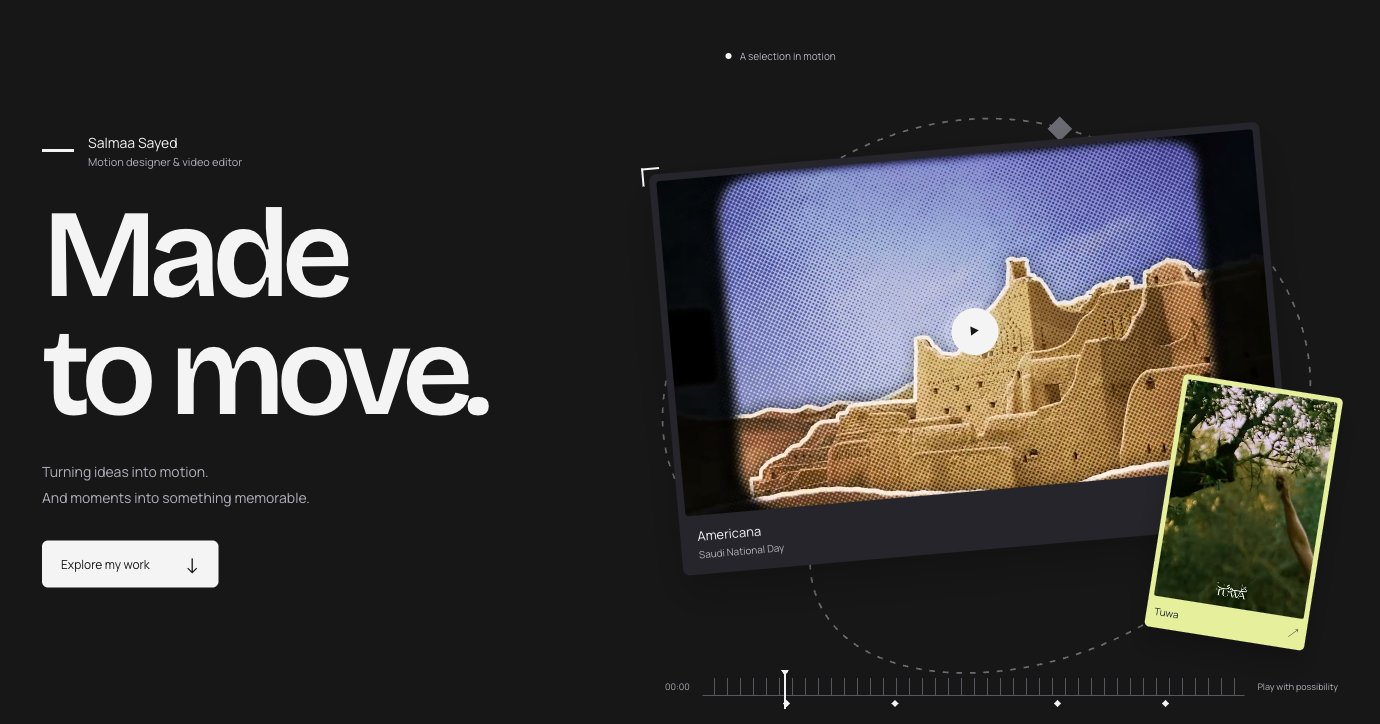
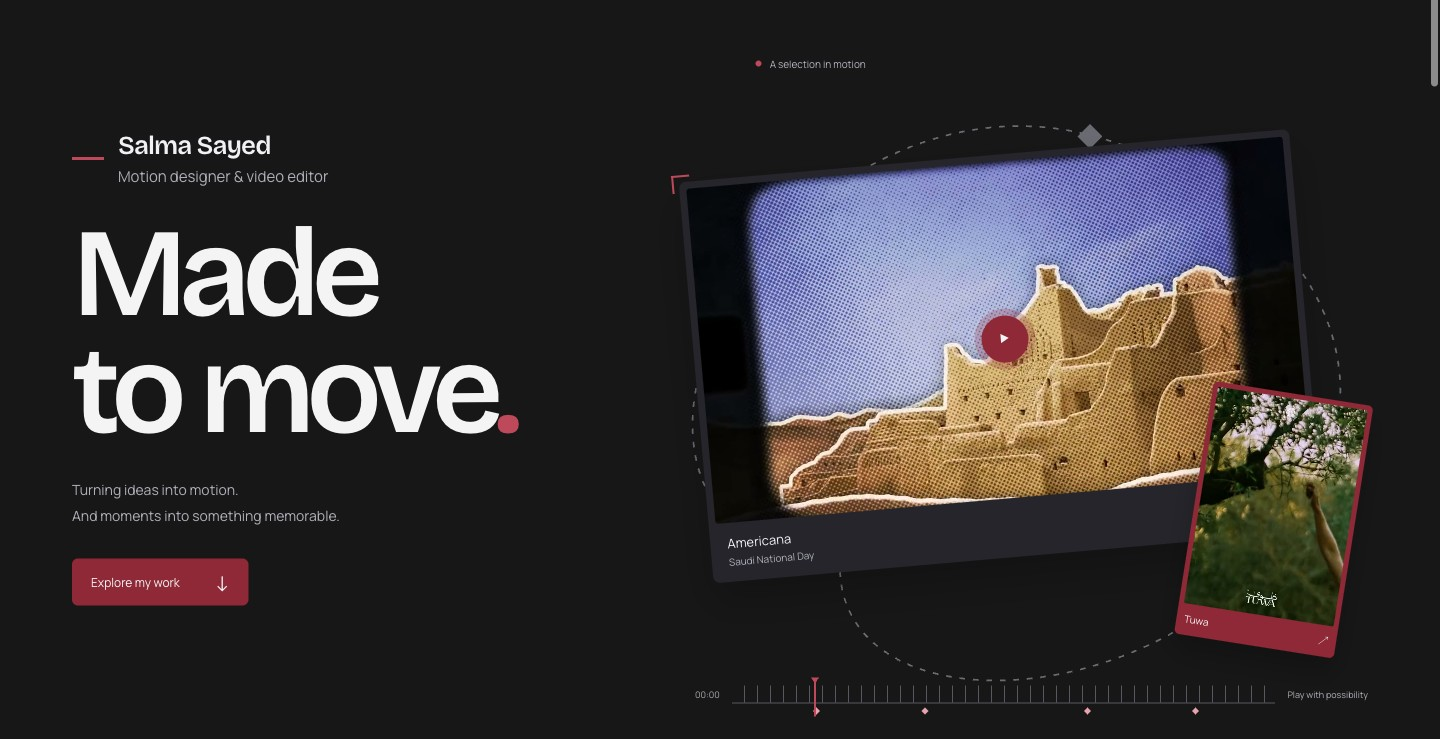
Refine Salma identity with wine accents and centered mobile type

diff --git a/styles.css b/styles.css
@@ -1,10 +1,10 @@
 @font-face{font-family:Bricolage;src:url('media/fonts/bricolage-latin.woff2') format('woff2');font-style:normal;font-weight:600;font-display:swap}
 @font-face{font-family:Manrope;src:url('media/fonts/manrope-latin.woff2') format('woff2');font-style:normal;font-weight:400;font-display:swap}
-:root{--paper:#171717;--highlight:#f4f4f4;--accent:#f4f4f4;--ink:#f1f1f5;--muted:#b0b0bb;--line:#3c3c43;--lavender:#27272c;--lime:#e5ef9c;--display:Bricolage,Arial,sans-serif;--body:Manrope,Arial,sans-serif}
-*{box-sizing:border-box}html{scroll-behavior:smooth;scroll-padding-top:100px}body{margin:0;background:var(--paper);color:var(--ink);font:15px/1.65 var(--body);-webkit-font-smoothing:antialiased}button,a,input{-webkit-tap-highlight-color:transparent}button,input{font:inherit}button{cursor:pointer}a{color:inherit;text-decoration:none}button{color:inherit}button:disabled{cursor:default;opacity:.35}img,video{display:block;width:100%}button svg{width:20px;height:20px;fill:none;stroke:currentColor;stroke-width:1.7;stroke-linecap:round;stroke-linejoin:round}button svg polygon,button svg rect{fill:currentColor;stroke:none}button[hidden],a[hidden],[hidden]{display:none!important}h1,h2,h3,p{margin:0}h1,h2,h3{font-family:var(--display);font-weight:600}a:focus-visible,button:focus-visible,input:focus-visible,article:focus-visible{outline:3px solid var(--highlight);outline-offset:5px}.skip-link{color:#171717;position:fixed;left:20px;top:-100px;z-index:20;padding:12px 20px;background:white;border:2px solid var(--highlight)}.skip-link:focus{top:12px}.site-header{max-width:1480px;margin:auto;padding:30px 5%;display:flex;align-items:center;justify-content:center}nav{display:flex;align-items:center;gap:34px}.site-header nav a{font-size:13px}.site-header nav a:hover{color:var(--highlight)}.nav-contact{border:1px solid var(--line);border-radius:24px;padding:10px 20px}.nav-contact span{padding-left:16px}.hero{max-width:1480px;padding:55px 5% 60px;margin:auto;display:grid;grid-template-columns:1fr 1.08fr;min-height:700px;align-items:center}.hero-copy{z-index:1}.identity{display:flex;gap:14px;align-items:center;margin-bottom:26px}.identity p{display:grid;line-height:1.55}.hero-name{font-family:var(--display);font-size:26px;letter-spacing:-.035em;line-height:1.3}.hero-title{font-size:15px;color:var(--muted);margin-top:3px}.identity-line{display:block;width:32px;height:3px;background:var(--highlight)}h1{font-size:clamp(85px,8.7vw,135px);letter-spacing:-.072em;line-height:.94;color:var(--highlight)}.move-word{display:inline-block;position:relative}.motion-dot{display:inline-block;color:var(--highlight)}.hero-description{margin:27px 0 30px;font-size:14px;line-height:1.85;color:var(--muted)}.primary-link{background:var(--highlight);color:var(--paper);padding:13px 19px;border-radius:6px;font-size:12px;display:inline-flex;gap:35px;align-items:center}.primary-link:hover{background:#ffffff}.primary-link span{font-size:21px;line-height:1}.hero-stage{position:relative;width:100%;aspect-ratio:1.08;align-self:center}.motion-path{position:absolute;inset:-4% -6%;width:112%;height:112%;color:#6b6b73;pointer-events:none}.hero-tiny{position:absolute;left:9%;top:0;font-size:10px;color:var(--muted);display:flex;gap:8px;align-items:center}.tiny-dot{width:6px;height:6px;background:var(--highlight);border-radius:50%}.hero-feature{position:absolute;left:0;top:16%;width:91%;background:#25252b;border:0;padding:7px;text-align:left;border-radius:7px;transform:rotate(-5deg);box-shadow:0 20px 40px #00000035;transition:transform .3s}.hero-feature:hover{transform:rotate(-2deg)}.hero-feature>img{aspect-ratio:16/9;object-fit:cover;border-radius:3px}.hero-feature-bottom{display:flex;justify-content:space-between;padding:12px 10px 6px;align-items:center;font-size:13px;line-height:1.35}.hero-feature-bottom small{display:block;font-size:10px;margin-top:3px;color:var(--muted)}.hero-play{display:grid;place-items:center;width:35px;height:35px;border-radius:50%;background:var(--highlight);color:#171717;font-size:11px}.frame-corner{position:absolute;width:18px;height:18px;border-color:var(--highlight);border-style:solid;z-index:1}.top-left{top:-7px;left:-7px;border-width:2px 0 0 2px}.bottom-right{right:-7px;bottom:-7px;border-width:0 2px 2px 0}.hero-secondary{position:absolute;right:2%;bottom:5%;width:24%;padding:5px;border:0;background:var(--lime);color:#232638;border-radius:5px;transform:rotate(9deg);box-shadow:0 16px 25px #00000035;transition:transform .3s}.hero-secondary:hover{transform:rotate(3deg)}.hero-secondary img{aspect-ratio:9/13;object-fit:cover;border-radius:2px}.hero-secondary>span{display:flex;justify-content:space-between;font-size:10px;padding:7px 3px 3px}.motion-stamp{position:absolute;left:8%;bottom:14%;width:64px;height:64px;color:var(--highlight);transform:rotate(12deg)}.motion-stamp svg{width:100%;height:100%;stroke:currentColor;stroke-width:10}.timeline{position:absolute;bottom:-4%;left:0;right:0;display:flex;align-items:center;gap:13px;font-size:9px;color:var(--muted)}.timeline-track{height:18px;flex:1;position:relative;background:repeating-linear-gradient(90deg,transparent 0,transparent 11px,#575760 12px,#575760 13px);border-bottom:1px solid #575760}.timeline-track i{position:absolute;top:23px;width:5px;height:5px;transform:rotate(45deg);background:var(--highlight)}.timeline-track i:nth-child(1){left:15%}.timeline-track i:nth-child(2){left:35%}.timeline-track i:nth-child(3){left:65%}.timeline-track i:nth-child(4){left:85%}.timeline-track b{position:absolute;top:-5px;left:15%;height:36px;width:2px;background:var(--highlight);animation:playhead 8s ease-in-out infinite alternate}.timeline-track b:before{content:'';position:absolute;left:-3px;top:-3px;border:4px solid transparent;border-top:6px solid var(--highlight)}@keyframes playhead{to{left:85%}}
-.work-section{max-width:1480px;padding:76px 5% 20px;margin:auto}.work-heading{display:flex;justify-content:space-between;align-items:flex-end;gap:30px;padding-bottom:36px}.section-intro{font-size:12px;margin-bottom:17px;color:var(--muted)}.work-heading h2,.about h2{font-size:clamp(40px,4.5vw,65px);line-height:1.05;letter-spacing:-.055em}.work-heading>p{font-size:12px;line-height:1.8;color:var(--muted);padding-bottom:7px}.work-index{border-top:1px solid var(--line);border-bottom:1px solid var(--line);padding:18px 0;gap:30px;margin-bottom:50px}.work-index a{font-size:12px;display:flex;gap:9px;align-items:center}.work-index a:hover{color:var(--highlight)}.work-index a span{font-size:9px;color:var(--muted)}.index-note{margin-left:auto;font-size:10px;color:var(--muted);display:flex;align-items:center;gap:8px}.index-note svg{width:14px;height:14px;fill:none;stroke:currentColor;stroke-width:1.5}.portfolio-section{margin:0 0 62px;scroll-margin-top:30px}.section-header{display:flex;align-items:center;justify-content:space-between;margin-bottom:22px;gap:20px}.section-title-group{display:flex;align-items:baseline;gap:24px}.section-label{font-size:30px;letter-spacing:-.045em;line-height:1.2}.section-description{font-size:11px;color:var(--muted)}.rail-nav{display:flex;gap:8px}.carousel-btn{width:35px;height:35px;border:1px solid var(--line);border-radius:50%;background:transparent;font-size:17px;line-height:1}.carousel-btn:not(:disabled):hover{background:var(--highlight);border-color:var(--highlight);color:var(--paper)}.video-scroll-wrap{overflow-x:auto;overscroll-behavior-x:contain;scroll-snap-type:x mandatory;scrollbar-width:thin;scrollbar-color:#797980 transparent;padding:6px 4px 17px;margin:-6px -4px 0}.video-track{display:flex;gap:23px;width:max-content;min-width:100%}.work-item{width:clamp(260px,31.9vw,444px);scroll-snap-align:start}.layout-reels .work-item{width:clamp(190px,21vw,287px)}.video-card{position:relative;width:100%;aspect-ratio:16/10;overflow:hidden;border-radius:8px;background:#25252b;cursor:pointer}.reel-card{aspect-ratio:9/13.8}.video-card video,.video-poster,.video-card iframe{position:absolute;inset:0;height:100%;width:100%;object-fit:cover;border:0;background:#1b1b1d}.video-card .contain-video{object-fit:contain}.video-card:after{content:'';position:absolute;inset:50% 0 0;background:linear-gradient(transparent,#00000065);pointer-events:none}.media-controls{position:absolute;bottom:14px;left:14px;right:14px;z-index:2;display:flex;align-items:center;gap:7px}.media-controls button{display:grid;place-items:center;width:33px;height:33px;border:1px solid #ffffff50;border-radius:50%;background:#12121270;color:white;backdrop-filter:blur(8px)}.media-controls button:hover{background:var(--accent);color:#171717}.media-controls .media-expand{margin-left:auto}.media-controls button svg{width:16px;height:16px}.media-controls button:focus-visible{outline-color:var(--lime);outline-offset:3px}.media-progress{position:absolute;bottom:2px;left:12px;width:calc(100% - 24px);height:3px;accent-color:var(--lime);z-index:3;cursor:pointer;opacity:0;transition:opacity .2s}.video-card:hover .media-progress,.video-card:focus-within .media-progress,.video-card.is-playing .media-progress{opacity:1}.work-caption{display:flex;justify-content:space-between;gap:12px;padding:14px 1px 0;align-items:baseline;line-height:1.5}.work-caption h4{font-family:var(--body);font-size:12px;letter-spacing:0;font-weight:400}.work-caption p{font-size:10px;color:var(--muted)}.play-feedback{position:absolute;z-index:3;top:50%;left:50%;transform:translate(-50%,-50%) scale(.85);width:52px;height:52px;background:#111936a0;color:white;border-radius:50%;display:grid;place-items:center;opacity:0;pointer-events:none;transition:opacity .15s,transform .15s}.play-feedback svg{width:20px;fill:currentColor}.play-feedback.is-visible{opacity:1;transform:translate(-50%,-50%) scale(1)}.video-card.is-loading:before,.viewer-media.is-loading:before{content:'';position:absolute;top:50%;left:50%;width:28px;height:28px;margin:-14px;border:2px solid #ffffff70;border-top-color:white;border-radius:50%;animation:spinner .8s linear infinite;z-index:4;pointer-events:none}@keyframes spinner{to{transform:rotate(360deg)}}.media-error{position:absolute;inset:0;display:grid;place-items:center;padding:30px;color:white;background:#202024e8;z-index:1;font-size:12px;text-align:center}.dragging{cursor:grabbing;scroll-snap-type:none;user-select:none}.dragging .video-card{cursor:grabbing}.has-embed:after{display:none}
-.about{max-width:1480px;display:grid;grid-template-columns:1fr 1fr;gap:10%;margin:auto;padding:80px 8% 130px;align-items:center}.about-art{position:relative;aspect-ratio:1;max-width:435px;background:var(--lavender);border-radius:50%;display:grid;place-items:center;isolation:isolate}.about-art>span{font-family:var(--display);color:var(--highlight);font-size:clamp(50px,5.5vw,78px);line-height:.96;letter-spacing:-.06em;text-align:center;z-index:1}.about-shape{position:absolute;width:82%;height:52%;border:1px solid #929299;border-radius:50%;transform:rotate(-32deg)}.about-diamond{position:absolute;top:13%;right:14%;width:28px;height:28px;background:var(--highlight);transform:rotate(45deg)}.about-cross{position:absolute;bottom:11%;left:11%;color:var(--highlight);font-family:var(--display);font-size:85px;line-height:1;transform:rotate(12deg)}.about-copy>p:not(.section-intro){font-size:13px;color:var(--muted);margin-top:22px;max-width:420px;line-height:1.85}.skills{display:flex;flex-wrap:wrap;gap:8px;margin-top:27px}.skills span{font-size:10px;padding:6px 11px;border:1px solid var(--line);border-radius:18px}.contact{background:#222224;color:#f2f3f7;padding:53px 8% 28px}.contact-top{display:flex;align-items:center;justify-content:space-between;max-width:1230px;margin:0 auto 18px;font-size:13px}.contact-spark{font-size:64px;line-height:1}.contact h2{max-width:1230px;margin:auto;font-size:clamp(55px,7.5vw,112px);letter-spacing:-.065em;line-height:1.05}.contact-links{max-width:1230px;margin:40px auto 80px;display:flex;gap:35px;align-items:center;flex-wrap:wrap;font-size:12px}.contact-links .email-link{font-size:clamp(14px,1.7vw,23px);border-bottom:1px solid #ffffff80;padding-bottom:7px;margin-right:auto}.contact-links a:hover{color:var(--lime)}.contact-links a span{padding-left:12px}.contact-bottom{max-width:1230px;margin:auto;border-top:1px solid #ffffff35;padding-top:22px;display:flex;justify-content:space-between;gap:15px;font-size:10px}.contact-bottom>span:first-child{font-family:var(--display);font-size:17px}.contact-bottom a span{padding-left:8px}footer{max-width:1480px;margin:auto;padding:20px 5%;display:flex;justify-content:space-between;font-size:9px;color:var(--muted)}
-.viewer-open{position:fixed;width:100%;overflow:hidden}.media-viewer{position:fixed;inset:0;width:100vw;max-width:none;height:100dvh;max-height:none;margin:0;padding:25px 32px;background:#1b1b1d;color:var(--ink);border:0;overflow:auto}.media-viewer[open]{display:flex;flex-direction:column;gap:18px}.media-viewer::backdrop{background:#1b1b1d}.media-viewer button:focus-visible,.media-viewer a:focus-visible{outline-color:var(--lime)}.viewer-header{display:flex;justify-content:space-between;align-items:center;gap:20px;flex-shrink:0}.viewer-header h2{font-size:22px;line-height:1.3;letter-spacing:-.02em}.viewer-category{font-size:10px;color:#b7bfdc}.viewer-close{background:transparent;border:1px solid #ffffff40;border-radius:25px;padding:8px 16px;display:flex;align-items:center;gap:18px;color:var(--ink);font-size:12px}.viewer-close span{font-size:25px;line-height:1}.viewer-media{position:relative;flex:1;min-height:0;display:flex;align-items:center;justify-content:center;overflow:hidden}.viewer-media>video,.viewer-media>img,.viewer-media>iframe{width:100%;height:100%;max-width:100%;max-height:100%;object-fit:contain;border:0}.viewer-media>iframe{aspect-ratio:16/9}.viewer-footer{display:flex;justify-content:space-between;align-items:center;gap:20px;flex-shrink:0;font-size:11px;min-height:44px}.viewer-local-controls,.viewer-browse{display:flex;align-items:center;gap:10px}.viewer-footer button{display:grid;place-items:center;width:40px;height:40px;border-radius:50%;background:transparent;color:white;border:1px solid #ffffff40;font-size:20px}.viewer-footer button:hover{background:var(--accent);color:#171717}.viewer-browse{margin-left:auto}.viewer-browse>span{min-width:56px;text-align:center;font-size:11px}.viewer-hint-text{color:#b7bfdc;margin-left:auto;font-size:10px}.viewer-error{position:absolute;left:50%;top:50%;transform:translate(-50%,-50%);padding:25px;background:#29292f;border:1px solid #55555e;text-align:center;min-width:240px;border-radius:8px;z-index:5}.viewer-error p{font-size:13px;margin-bottom:14px}.viewer-retry{background:var(--paper);color:var(--highlight);border:0;padding:8px 17px;border-radius:4px;font-size:12px}.noscript-message{padding:20px;text-align:center}.project-card{position:relative}.project-card img{aspect-ratio:4/3;object-fit:cover}.project-expand{position:absolute;right:10px;bottom:10px;background:white}.projects-grid{display:grid;grid-template-columns:repeat(2,1fr);gap:24px}
+:root{--paper:#171717;--highlight:#f4f4f4;--accent:#8f2938;--accent-hover:#a43647;--accent-soft:#e7a4ae;--accent-mark:#bd495b;--ink:#f1f1f5;--muted:#b0b0bb;--line:#3c3c43;--art-surface:#2b1e21;--display:Bricolage,Arial,sans-serif;--body:Manrope,Arial,sans-serif}
+*{box-sizing:border-box}html{scroll-behavior:smooth;scroll-padding-top:100px}body{margin:0;background:var(--paper);color:var(--ink);font:15px/1.65 var(--body);-webkit-font-smoothing:antialiased}button,a,input{-webkit-tap-highlight-color:transparent}button,input{font:inherit}button{cursor:pointer}a{color:inherit;text-decoration:none}button{color:inherit}button:disabled{cursor:default;opacity:.35}img,video{display:block;width:100%}button svg{width:20px;height:20px;fill:none;stroke:currentColor;stroke-width:1.7;stroke-linecap:round;stroke-linejoin:round}button svg polygon,button svg rect{fill:currentColor;stroke:none}button[hidden],a[hidden],[hidden]{display:none!important}h1,h2,h3,p{margin:0}h1,h2,h3{font-family:var(--display);font-weight:600}a:focus-visible,button:focus-visible,input:focus-visible,article:focus-visible{outline:3px solid var(--highlight);outline-offset:5px}.skip-link{color:#171717;position:fixed;left:20px;top:-100px;z-index:20;padding:12px 20px;background:white;border:2px solid var(--highlight)}.skip-link:focus{top:12px}.site-header{max-width:1480px;margin:auto;padding:30px 5%;display:flex;align-items:center;justify-content:center}nav{display:flex;align-items:center;gap:34px}.site-header nav a{font-size:13px}.site-header nav a:hover{color:var(--accent-soft)}.nav-contact{border:1px solid #74323d;background:#281b1e;border-radius:24px;padding:10px 20px}.nav-contact:hover{background:var(--accent);border-color:var(--accent);color:var(--highlight)!important}.nav-contact span{padding-left:16px}.hero{max-width:1480px;padding:55px 5% 60px;margin:auto;display:grid;grid-template-columns:1fr 1.08fr;min-height:700px;align-items:center}.hero-copy{z-index:1}.identity{display:flex;gap:14px;align-items:center;margin-bottom:26px}.identity p{display:grid;line-height:1.55}.hero-name{font-family:var(--display);font-size:26px;letter-spacing:-.035em;line-height:1.3}.hero-title{font-size:15px;color:var(--muted);margin-top:3px}.identity-line{display:block;width:32px;height:3px;background:var(--accent-mark)}h1{font-size:clamp(85px,8.7vw,135px);letter-spacing:-.072em;line-height:.94;color:var(--highlight)}.move-word{display:inline-block;position:relative}.motion-dot{display:inline-block;color:var(--accent-mark)}.hero-description{margin:27px 0 30px;font-size:14px;line-height:1.85;color:var(--muted)}.primary-link{background:var(--accent);color:var(--highlight);padding:13px 19px;border-radius:6px;font-size:12px;display:inline-flex;gap:35px;align-items:center}.primary-link:hover{background:var(--accent-hover)}.primary-link span{font-size:21px;line-height:1}.hero-stage{position:relative;width:100%;aspect-ratio:1.08;align-self:center}.motion-path{position:absolute;inset:-4% -6%;width:112%;height:112%;color:#6b6b73;pointer-events:none}.hero-tiny{position:absolute;left:9%;top:0;font-size:10px;color:var(--muted);display:flex;gap:8px;align-items:center}.tiny-dot{width:6px;height:6px;background:var(--accent-mark);border-radius:50%}.hero-feature{position:absolute;left:0;top:16%;width:91%;background:#25252b;border:0;padding:7px;text-align:left;border-radius:7px;transform:rotate(-5deg);box-shadow:0 20px 40px #00000035;transition:transform .3s}.hero-feature:hover{transform:rotate(-2deg)}.hero-feature>img{aspect-ratio:16/9;object-fit:cover;border-radius:3px}.hero-feature-bottom{display:flex;justify-content:space-between;padding:12px 10px 6px;align-items:center;font-size:13px;line-height:1.35}.hero-feature-bottom small{display:block;font-size:10px;margin-top:3px;color:var(--muted)}.hero-play{display:grid;place-items:center;width:35px;height:35px;border-radius:50%;background:var(--highlight);color:#171717;font-size:11px}.frame-corner{position:absolute;width:18px;height:18px;border-color:var(--accent-mark);border-style:solid;z-index:1}.top-left{top:-7px;left:-7px;border-width:2px 0 0 2px}.bottom-right{right:-7px;bottom:-7px;border-width:0 2px 2px 0}.hero-secondary{position:absolute;right:2%;bottom:5%;width:24%;padding:5px;border:0;background:var(--accent);color:var(--highlight);border-radius:5px;transform:rotate(9deg);box-shadow:0 16px 25px #00000035;transition:transform .3s}.hero-secondary:hover{transform:rotate(3deg)}.hero-secondary img{aspect-ratio:9/13;object-fit:cover;border-radius:2px}.hero-secondary>span{display:flex;justify-content:space-between;font-size:10px;padding:7px 3px 3px}.motion-stamp{position:absolute;left:8%;bottom:14%;width:64px;height:64px;color:var(--highlight);transform:rotate(12deg)}.motion-stamp svg{width:100%;height:100%;stroke:currentColor;stroke-width:10}.timeline{position:absolute;bottom:-4%;left:0;right:0;display:flex;align-items:center;gap:13px;font-size:9px;color:var(--muted)}.timeline-track{height:18px;flex:1;position:relative;background:repeating-linear-gradient(90deg,transparent 0,transparent 11px,#575760 12px,#575760 13px);border-bottom:1px solid #575760}.timeline-track i{position:absolute;top:23px;width:5px;height:5px;transform:rotate(45deg);background:var(--accent-soft)}.timeline-track i:nth-child(1){left:15%}.timeline-track i:nth-child(2){left:35%}.timeline-track i:nth-child(3){left:65%}.timeline-track i:nth-child(4){left:85%}.timeline-track b{position:absolute;top:-5px;left:15%;height:36px;width:2px;background:var(--accent-mark);animation:playhead 8s ease-in-out infinite alternate}.timeline-track b:before{content:'';position:absolute;left:-3px;top:-3px;border:4px solid transparent;border-top:6px solid var(--accent-mark)}@keyframes playhead{to{left:85%}}
+.work-section{max-width:1480px;padding:76px 5% 20px;margin:auto}.work-heading{display:flex;justify-content:space-between;align-items:flex-end;gap:30px;padding-bottom:36px}.section-intro{font-size:12px;margin-bottom:17px;color:var(--muted)}.work-heading h2,.about h2{font-size:clamp(40px,4.5vw,65px);line-height:1.05;letter-spacing:-.055em}.work-heading>p{font-size:12px;line-height:1.8;color:var(--muted);padding-bottom:7px}.work-index{border-top:1px solid var(--line);border-bottom:1px solid var(--line);padding:18px 0;gap:30px;margin-bottom:50px}.work-index a{font-size:12px;display:flex;gap:9px;align-items:center}.work-index a:hover{color:var(--accent-soft)}.work-index a span{font-size:9px;color:var(--muted)}.index-note{margin-left:auto;font-size:10px;color:var(--muted);display:flex;align-items:center;gap:8px}.index-note svg{width:14px;height:14px;fill:none;stroke:currentColor;stroke-width:1.5}.portfolio-section{margin:0 0 62px;scroll-margin-top:30px}.section-header{display:flex;align-items:center;justify-content:space-between;margin-bottom:22px;gap:20px}.section-title-group{display:flex;align-items:baseline;gap:24px}.section-label{font-size:30px;letter-spacing:-.045em;line-height:1.2}.section-description{font-size:11px;color:var(--muted)}.rail-nav{display:flex;gap:8px}.carousel-btn{width:35px;height:35px;border:1px solid var(--line);border-radius:50%;background:transparent;font-size:17px;line-height:1}.carousel-btn:not(:disabled):hover{background:var(--accent);border-color:var(--accent);color:var(--highlight)}.video-scroll-wrap{overflow-x:auto;overscroll-behavior-x:contain;scroll-snap-type:x mandatory;scrollbar-width:thin;scrollbar-color:#797980 transparent;padding:6px 4px 17px;margin:-6px -4px 0}.video-track{display:flex;gap:23px;width:max-content;min-width:100%}.work-item{width:clamp(260px,31.9vw,444px);scroll-snap-align:start}.layout-reels .work-item{width:clamp(190px,21vw,287px)}.video-card{position:relative;width:100%;aspect-ratio:16/10;overflow:hidden;border-radius:8px;background:#25252b;cursor:pointer}.reel-card{aspect-ratio:9/13.8}.video-card video,.video-poster,.video-card iframe{position:absolute;inset:0;height:100%;width:100%;object-fit:cover;border:0;background:#1b1b1d}.video-card .contain-video{object-fit:contain}.video-card:after{content:'';position:absolute;inset:50% 0 0;background:linear-gradient(transparent,#00000065);pointer-events:none}.media-controls{position:absolute;bottom:14px;left:14px;right:14px;z-index:2;display:flex;align-items:center;gap:7px}.media-controls button{display:grid;place-items:center;width:33px;height:33px;border:1px solid #ffffff50;border-radius:50%;background:#12121270;color:white;backdrop-filter:blur(8px)}.media-controls button:hover{background:var(--accent);color:var(--highlight)}.media-controls .media-expand{margin-left:auto}.media-controls button svg{width:16px;height:16px}.media-controls button:focus-visible{outline-color:var(--accent-soft);outline-offset:3px}.media-progress{position:absolute;bottom:2px;left:12px;width:calc(100% - 24px);height:3px;accent-color:var(--accent-soft);z-index:3;cursor:pointer;opacity:0;transition:opacity .2s}.video-card:hover .media-progress,.video-card:focus-within .media-progress,.video-card.is-playing .media-progress{opacity:1}.work-caption{display:flex;justify-content:space-between;gap:12px;padding:14px 1px 0;align-items:baseline;line-height:1.5}.work-caption h4{font-family:var(--body);font-size:12px;letter-spacing:0;font-weight:400}.work-caption p{font-size:10px;color:var(--muted)}.play-feedback{position:absolute;z-index:3;top:50%;left:50%;transform:translate(-50%,-50%) scale(.85);width:52px;height:52px;background:#642331d9;color:white;border-radius:50%;display:grid;place-items:center;opacity:0;pointer-events:none;transition:opacity .15s,transform .15s}.play-feedback svg{width:20px;fill:currentColor}.play-feedback.is-visible{opacity:1;transform:translate(-50%,-50%) scale(1)}.video-card.is-loading:before,.viewer-media.is-loading:before{content:'';position:absolute;top:50%;left:50%;width:28px;height:28px;margin:-14px;border:2px solid #ffffff70;border-top-color:white;border-radius:50%;animation:spinner .8s linear infinite;z-index:4;pointer-events:none}@keyframes spinner{to{transform:rotate(360deg)}}.media-error{position:absolute;inset:0;display:grid;place-items:center;padding:30px;color:white;background:#202024e8;z-index:1;font-size:12px;text-align:center}.dragging{cursor:grabbing;scroll-snap-type:none;user-select:none}.dragging .video-card{cursor:grabbing}.has-embed:after{display:none}
+.about{max-width:1480px;display:grid;grid-template-columns:1fr 1fr;gap:10%;margin:auto;padding:80px 8% 130px;align-items:center}.about-art{position:relative;aspect-ratio:1;max-width:435px;background:var(--art-surface);border-radius:50%;display:grid;place-items:center;isolation:isolate}.about-art>span{font-family:var(--display);color:var(--highlight);font-size:clamp(50px,5.5vw,78px);line-height:.96;letter-spacing:-.06em;text-align:center;z-index:1}.about-shape{position:absolute;width:82%;height:52%;border:1px solid #929299;border-radius:50%;transform:rotate(-32deg)}.about-diamond{position:absolute;top:13%;right:14%;width:28px;height:28px;background:var(--accent-mark);transform:rotate(45deg)}.about-cross{position:absolute;bottom:11%;left:11%;color:var(--accent-mark);font-family:var(--display);font-size:85px;line-height:1;transform:rotate(12deg)}.about-copy>p:not(.section-intro){font-size:13px;color:var(--muted);margin-top:22px;max-width:420px;line-height:1.85}.skills{display:flex;flex-wrap:wrap;gap:8px;margin-top:27px}.skills span{font-size:10px;padding:6px 11px;border:1px solid var(--line);border-radius:18px}.contact{background:#211a1c;border-top:1px solid #5b2832;color:#f2f3f7;padding:53px 8% 28px}.contact-top{display:flex;align-items:center;justify-content:space-between;max-width:1230px;margin:0 auto 18px;font-size:13px}.contact-spark{color:var(--accent-mark);font-size:64px;line-height:1}.contact h2{max-width:1230px;margin:auto;font-size:clamp(55px,7.5vw,112px);letter-spacing:-.065em;line-height:1.05}.contact-links{max-width:1230px;margin:40px auto 80px;display:flex;gap:35px;align-items:center;flex-wrap:wrap;font-size:12px}.contact-links .email-link{font-size:clamp(14px,1.7vw,23px);border-bottom:1px solid #ffffff80;padding-bottom:7px;margin-right:auto}.contact-links a:hover{color:var(--accent-soft)}.contact-links a span{padding-left:12px}.contact-bottom{max-width:1230px;margin:auto;border-top:1px solid #ffffff35;padding-top:22px;display:flex;justify-content:space-between;gap:15px;font-size:10px}.contact-bottom>span:first-child{font-family:var(--display);font-size:17px}.contact-bottom a span{padding-left:8px}footer{max-width:1480px;margin:auto;padding:20px 5%;display:flex;justify-content:space-between;font-size:9px;color:var(--muted)}
+.viewer-open{position:fixed;width:100%;overflow:hidden}.media-viewer{position:fixed;inset:0;width:100vw;max-width:none;height:100dvh;max-height:none;margin:0;padding:25px 32px;background:#1b1b1d;color:var(--ink);border:0;overflow:auto}.media-viewer[open]{display:flex;flex-direction:column;gap:18px}.media-viewer::backdrop{background:#1b1b1d}.media-viewer button:focus-visible,.media-viewer a:focus-visible{outline-color:var(--accent-soft)}.viewer-header{display:flex;justify-content:space-between;align-items:center;gap:20px;flex-shrink:0}.viewer-header h2{font-size:22px;line-height:1.3;letter-spacing:-.02em}.viewer-category{font-size:10px;color:var(--accent-soft)}.viewer-close{background:transparent;border:1px solid #ffffff40;border-radius:25px;padding:8px 16px;display:flex;align-items:center;gap:18px;color:var(--ink);font-size:12px}.viewer-close span{font-size:25px;line-height:1}.viewer-media{position:relative;flex:1;min-height:0;display:flex;align-items:center;justify-content:center;overflow:hidden}.viewer-media>video,.viewer-media>img,.viewer-media>iframe{width:100%;height:100%;max-width:100%;max-height:100%;object-fit:contain;border:0}.viewer-media>iframe{aspect-ratio:16/9}.viewer-footer{display:flex;justify-content:space-between;align-items:center;gap:20px;flex-shrink:0;font-size:11px;min-height:44px}.viewer-local-controls,.viewer-browse{display:flex;align-items:center;gap:10px}.viewer-footer button{display:grid;place-items:center;width:40px;height:40px;border-radius:50%;background:transparent;color:white;border:1px solid #ffffff40;font-size:20px}.viewer-footer button:hover{background:var(--accent);color:var(--highlight)}.viewer-browse{margin-left:auto}.viewer-browse>span{min-width:56px;text-align:center;font-size:11px}.viewer-hint-text{color:var(--muted);margin-left:auto;font-size:10px}.viewer-error{position:absolute;left:50%;top:50%;transform:translate(-50%,-50%);padding:25px;background:#29292f;border:1px solid #55555e;text-align:center;min-width:240px;border-radius:8px;z-index:5}.viewer-error p{font-size:13px;margin-bottom:14px}.viewer-retry{background:var(--paper);color:var(--highlight);border:0;padding:8px 17px;border-radius:4px;font-size:12px}.noscript-message{padding:20px;text-align:center}.project-card{position:relative}.project-card img{aspect-ratio:4/3;object-fit:cover}.project-expand{position:absolute;right:10px;bottom:10px;background:white}.projects-grid{display:grid;grid-template-columns:repeat(2,1fr);gap:24px}
 @media(min-width:1700px){.work-item{width:444px}.layout-reels .work-item{width:287px}}
 @media(max-width:1000px){.hero{min-height:600px;padding-top:50px;padding-bottom:55px}.hero-stage{aspect-ratio:1}.hero-secondary{bottom:0}.motion-stamp{bottom:7%;width:50px}.timeline{bottom:-11%}.work-heading h2,.about h2{font-size:48px}.about{gap:7%;padding:50px 6% 100px}.section-title-group{gap:18px}.work-item{width:340px}.layout-reels .work-item{width:225px}.contact-links{gap:25px}.contact-bottom>span:nth-child(2){display:none}}
 @media(max-width:700px){html{scroll-padding-top:25px}.site-header{padding:21px 6%}.site-header nav{gap:20px}.site-header nav a{font-size:11px}.nav-contact{padding:7px 12px}.nav-contact span{padding-left:5px}.hero{grid-template-columns:1fr;padding:36px 6% 57px;gap:43px;min-height:0}.identity{margin-bottom:22px}.hero-name{font-size:22px}.hero-title{font-size:12px}h1{font-size:clamp(86px,17vw,120px);line-height:.94}.hero-description{font-size:12px;margin:23px 0}.primary-link{padding:11px 16px;font-size:11px;gap:25px}.hero-stage{max-width:520px;margin:0 auto;aspect-ratio:1.18}.hero-feature{top:15%;left:3%;width:87%}.hero-tiny{left:6%;top:-1%}.hero-secondary{right:3%;bottom:1%;width:23%}.hero-feature-bottom{font-size:11px;padding:8px 5px 3px}.hero-feature-bottom small{font-size:9px}.hero-play{width:29px;height:29px;font-size:10px}.motion-stamp{left:12%;bottom:13%;width:48px}.timeline{bottom:-9%;font-size:8px;gap:9px}.timeline-track{height:15px}.work-section{padding:66px 6% 8px}.work-heading{padding-bottom:26px;align-items:flex-start}.work-heading h2{font-size:39px}.work-heading>p{font-size:10px;max-width:105px;padding-top:37px}.section-intro{font-size:10px;margin-bottom:12px}.work-index{gap:22px;margin-bottom:34px;flex-wrap:wrap;padding:15px 0}.work-index a{font-size:11px;gap:5px}.index-note{width:100%;margin:0;font-size:9px;display:none}.portfolio-section{margin-bottom:38px}.section-label{font-size:26px}.section-description{font-size:10px;margin-top:5px}.section-title-group{display:block}.section-header{margin-bottom:19px;gap:10px}.carousel-btn{width:32px;height:32px}.video-track{gap:16px}.work-item{width:78vw;max-width:380px}.layout-reels .work-item{width:54vw;max-width:240px}.video-card{border-radius:6px}.media-controls{bottom:14px;left:10px;right:10px;gap:6px}.media-controls button{width:32px;height:32px}.work-caption{padding-top:10px;display:block}.work-caption h4{font-size:12px}.work-caption p{font-size:10px;margin-top:2px}.about{grid-template-columns:1fr;padding:36px 8% 72px;gap:36px}.about-art{width:75%;margin:auto;max-width:330px}.about-art>span{font-size:clamp(48px,13vw,70px)}.about-copy h2{font-size:43px}.about-copy>p:not(.section-intro){font-size:12px;margin-top:18px;max-width:100%}.skills{margin-top:21px}.contact{padding:35px 7% 25px}.contact-top{font-size:11px;margin-bottom:20px}.contact-spark{font-size:47px}.contact h2{font-size:clamp(47px,10.4vw,74px)}.contact-links{margin:27px auto 47px;gap:20px;font-size:11px}.contact-links .email-link{width:100%;font-size:clamp(13px,3.55vw,20px);padding-bottom:10px;margin:0}.contact-bottom{font-size:9px;padding-top:19px}.contact-bottom>span:first-child{font-size:15px}footer{padding:18px 7%;font-size:8px}.media-viewer{padding:17px 14px}.media-viewer[open]{gap:14px}.viewer-header h2{font-size:18px}.viewer-close{padding:7px 11px;font-size:11px;gap:12px}.viewer-footer{gap:8px;flex-wrap:wrap}.viewer-footer button{width:37px;height:37px}.viewer-browse{margin-left:auto;gap:7px}.viewer-hint-text{display:none}.viewer-category{font-size:9px}.viewer-media{touch-action:pan-y}.projects-grid{grid-template-columns:1fr}}
@@ -12,9 +12,25 @@
 @media(prefers-reduced-motion:reduce){html{scroll-behavior:auto}*,*:before,*:after{animation:none!important;transition:none!important}.hero-feature:hover{transform:rotate(-5deg)}.hero-secondary:hover{transform:rotate(9deg)}}
 /* Intrinsic HTML dimensions reserve space; CSS controls the visible frame. */
 img{height:auto}
-.hero-play{position:absolute;left:47%;top:40%;width:47px;height:47px;background:#f4f4f4;color:#171717;box-shadow:0 0 0 7px #ffffff25}
+.hero-play{position:absolute;left:47%;top:40%;width:47px;height:47px;background:var(--accent);color:var(--highlight);box-shadow:0 0 0 7px #8f293840}
 .motion-stamp{left:6%;bottom:4%;width:52px;height:52px}
 .work-caption h4{font-family:var(--body);font-size:12px;letter-spacing:0;font-weight:400;margin:0}
 @media(max-width:700px){.hero-play{width:38px;height:38px}.motion-stamp{bottom:8%;left:8%;width:37px;height:37px}}
 
 .motion-stamp{display:none}
+
+/* Center the composition and reading rhythm on phones. */
+@media(max-width:700px){
+  .hero-copy{text-align:center}
+  .identity{flex-direction:column;justify-content:center;gap:10px}
+  .work-heading{flex-direction:column;align-items:center;text-align:center;gap:18px}
+  .work-heading>p{padding:0;max-width:none}
+  .work-index{justify-content:center}
+  .section-header{flex-direction:column;align-items:center;text-align:center;gap:14px}
+  .work-caption,.about-copy{text-align:center}
+  .skills{justify-content:center}
+  .contact-top{position:relative;text-align:center;padding-top:8px;padding-bottom:4px}
+  .contact-spark{position:absolute;right:0;top:0;font-size:30px}
+  .contact h2,.contact-links{text-align:center}
+  .contact-links{justify-content:center}
+}

diff --git a/index.html b/index.html
@@ -4,19 +4,19 @@
   <meta charset="utf-8">
   <meta name="viewport" content="width=device-width, initial-scale=1">
   <meta name="theme-color" content="#171717">
-  <meta name="description" content="Salmaa Sayed — motion designer and video editor. Explore motion graphics, brand teasers, and reels for Americana, Tuwa, UNI-Q, and more.">
+  <meta name="description" content="Salma Sayed — motion designer and video editor. Explore motion graphics, brand teasers, and reels for Americana, Tuwa, UNI-Q, and more.">
   <link rel="canonical" href="https://salmaa-sayed.github.io/portfolio/">
   <meta property="og:url" content="https://salmaa-sayed.github.io/portfolio/">
   <meta property="og:type" content="website">
-  <meta property="og:title" content="Salmaa Sayed — Made to move">
-  <meta property="og:description" content="Motion graphics, brand teasers, and video edits by Salmaa Sayed.">
-  <meta property="og:image" content="https://salmaa-sayed.github.io/portfolio/media/social-preview.jpg">
-  <title>Salmaa Sayed — Motion designer & video editor</title>
-  <link rel="icon" href="media/favicon.svg" type="image/svg+xml">
+  <meta property="og:title" content="Salma Sayed — Made to move">
+  <meta property="og:description" content="Motion graphics, brand teasers, and video edits by Salma Sayed.">
+  <meta property="og:image" content="https://salmaa-sayed.github.io/portfolio/media/social-preview.jpg?v=20261008-red">
+  <title>Salma Sayed — Motion designer & video editor</title>
+  <link rel="icon" href="media/favicon.svg?v=20261008-red" type="image/svg+xml">
   <link rel="preload" href="media/fonts/bricolage-latin.woff2" as="font" type="font/woff2" crossorigin>
   <link rel="preload" href="media/fonts/manrope-latin.woff2" as="font" type="font/woff2" crossorigin>
-  <link rel="stylesheet" href="styles.css">
-  <script src="content/content.js" defer></script>
+  <link rel="stylesheet" href="styles.css?v=20261008-red">
+  <script src="content/content.js?v=20261008-red" defer></script>
   <script src="content/renderer.js" defer></script>
 </head>
 <body>
@@ -27,7 +27,7 @@
   <main id="home">
     <section id="heroSection" class="hero" aria-labelledby="heroHeading">
       <div class="hero-copy">
-        <div class="identity"><span class="identity-line" aria-hidden="true"></span><p><span class="hero-name">Salmaa Sayed</span><span class="hero-title">Motion designer & video editor</span></p></div>
+        <div class="identity"><span class="identity-line" aria-hidden="true"></span><p><span class="hero-name">Salma Sayed</span><span class="hero-title">Motion designer & video editor</span></p></div>
         <h1 id="heroHeading">Made<br>to <span class="move-word">move<span class="motion-dot" aria-hidden="true">.</span></span></h1>
         <p class="hero-description">Turning ideas into motion.<br>And moments into something memorable.</p>
         <a class="primary-link" href="#work">Explore my work <span aria-hidden="true">↓</span></a>
@@ -52,16 +52,16 @@
     </section>
     <section id="about" class="about" aria-labelledby="aboutHeading">
       <div class="about-art" aria-hidden="true"><div class="about-shape"></div><div class="about-diamond"></div><span>Ideas<br>in motion.</span><div class="about-cross">+</div></div>
-      <div class="about-copy"><p class="section-intro">A little about me</p><h2 id="aboutHeading">Every frame<br>has a purpose.</h2><p>I’m Salmaa, a motion designer and video editor. I bring ideas to life through movement, rhythm, and considered details.</p><p>From a brand’s first glimpse to a story that unfolds frame by frame, my work connects design with the feeling it leaves behind.</p><div class="skills" aria-label="Creative disciplines"><span>Motion graphics</span><span>Video editing</span><span>Brand teasers</span><span>Social content</span></div></div>
+      <div class="about-copy"><p class="section-intro">A little about me</p><h2 id="aboutHeading">Every frame<br>has a purpose.</h2><p>I’m Salma, a motion designer and video editor. I bring ideas to life through movement, rhythm, and considered details.</p><p>From a brand’s first glimpse to a story that unfolds frame by frame, my work connects design with the feeling it leaves behind.</p><div class="skills" aria-label="Creative disciplines"><span>Motion graphics</span><span>Video editing</span><span>Brand teasers</span><span>Social content</span></div></div>
     </section>
-    <section id="contact" class="contact" aria-labelledby="contactHeading"><div class="contact-top"><p>Have an idea in mind?</p><span class="contact-spark" aria-hidden="true">✳</span></div><h2 id="contactHeading">Let’s make<br>something move.</h2><div class="contact-links"><a class="email-link" href="mailto:salmasayed2811@gmail.com">salmasayed2811@gmail.com <span aria-hidden="true">↗</span></a><a href="https://wa.me/201128051982" target="_blank" rel="noopener noreferrer">WhatsApp <span aria-hidden="true">↗</span></a><a href="tel:+201128051982">+20 112 805 1982</a></div><div class="contact-bottom"><span>Salmaa Sayed</span><span>Motion designer & video editor</span><a href="#home">Back to top <span aria-hidden="true">↑</span></a></div></section>
+    <section id="contact" class="contact" aria-labelledby="contactHeading"><div class="contact-top"><p>Have an idea in mind?</p><span class="contact-spark" aria-hidden="true">✳</span></div><h2 id="contactHeading">Let’s make<br>something move.</h2><div class="contact-links"><a class="email-link" href="mailto:salmasayed2811@gmail.com">salmasayed2811@gmail.com <span aria-hidden="true">↗</span></a><a href="https://wa.me/201128051982" target="_blank" rel="noopener noreferrer">WhatsApp <span aria-hidden="true">↗</span></a><a href="tel:+201128051982">+20 112 805 1982</a></div><div class="contact-bottom"><span>Salma Sayed</span><span>Motion designer & video editor</span><a href="#home">Back to top <span aria-hidden="true">↑</span></a></div></section>
   </main>
-  <footer><span>© <span id="year">2026</span> Salmaa Sayed</span><span>Designed to move you.</span></footer>
+  <footer><span>© <span id="year">2026</span> Salma Sayed</span><span>Designed to move you.</span></footer>
   <dialog id="mediaViewer" class="media-viewer" aria-labelledby="viewerTitle">
     <div class="viewer-header"><div><span class="viewer-category" id="viewerCategory"></span><h2 id="viewerTitle">Media viewer</h2></div><button id="viewerClose" class="viewer-close" type="button" aria-label="Close viewer">Close <span aria-hidden="true">×</span></button></div>
     <div id="viewerMedia" class="viewer-media"></div>
     <div class="viewer-footer"><div class="viewer-local-controls"><button id="viewerPlay" type="button" aria-label="Pause media"></button><button id="viewerSound" type="button" aria-label="Turn sound on"></button><button id="viewerFullscreen" type="button" aria-label="Enter fullscreen"><svg viewBox="0 0 24 24" aria-hidden="true"><path d="M8 3H3v5M16 3h5v5M8 21H3v-5M21 16v5h-5"/></svg></button></div><div class="viewer-browse"><button id="viewerPrev" type="button" aria-label="Previous media">←</button><span id="viewerCounter" aria-live="polite"></span><button id="viewerNext" type="button" aria-label="Next media">→</button></div><a id="viewerSource" target="_blank" rel="noopener noreferrer" hidden>Watch original</a><span class="viewer-hint-text">Use ← → to browse. Esc to close.</span></div>
   </dialog>
-  <noscript><p class="noscript-message">Enable JavaScript to browse and play the portfolio. <a href="mailto:salmasayed2811@gmail.com">Contact Salmaa by email</a>.</p></noscript>
+  <noscript><p class="noscript-message">Enable JavaScript to browse and play the portfolio. <a href="mailto:salmasayed2811@gmail.com">Contact Salma by email</a>.</p></noscript>
 </body>
 </html>

diff --git a/content/content.js b/content/content.js
@@ -3,7 +3,7 @@
    All production videos are local MP4s; source URLs are kept for provenance. */
 window.SITE_CONTENT = {
   playback: { autoplay: true, rememberSound: true, pauseOffscreen: true, viewerEnabled: true },
-  hero: { name: 'Salmaa Sayed', role: 'Motion designer & video editor', featured: 'XN4P5rIAQjU' },
+  hero: { name: 'Salma Sayed', role: 'Motion designer & video editor', featured: 'XN4P5rIAQjU' },
   contact: { whatsapp: 'https://wa.me/201128051982', phone: 'tel:+201128051982', email: 'mailto:salmasayed2811@gmail.com' },
   sections: [
     {

diff --git a/content/renderer.js b/content/renderer.js
@@ -1,5 +1,5 @@
 /* Media engine adapted from marwanrabah/portfolio (functional reference).
-   Salmaa-specific presentation, navigation, and content are independent. */
+   Salma-specific presentation, navigation, and content are independent. */
 const CONTENT = window.SITE_CONTENT;
 const SETTINGS = {
   autoplay: true,

diff --git a/scripts/fetch-posters.py b/scripts/fetch-posters.py
@@ -1,4 +1,4 @@
-"""Refresh thumbnails from Salmaa's supplied public videos; no video downloads."""
+"""Refresh thumbnails from Salma's supplied public videos; no video downloads."""
 import concurrent.futures, json, urllib.request
 from pathlib import Path
 IDS = ['isDsxGrKy_M', '2_83tmPxycc', 'lex8r6LOHu8', 'XN4P5rIAQjU', 'huGofbtz-b4', 'eRFnpAxorso', 'WHof-wzP970', 'dBLbzSQgc6I', 'KIV_ARPy8aA', 'xY_oTtFAGRo', 'z68RErUQRPE', 'USarlIfU78k', 'zvoBdHHm600', 'ODt0ao291vc', 'RtL4B8awR8s', 'VVMzcErR5yo', 'ttAh6XKlP6E', 'c5hBQKr6CWo', '_WOKJZZFybs']

diff --git a/DESIGN.md b/DESIGN.md
@@ -1,19 +1,21 @@
-# Salmaa Sayed — Made to move
+# Salma Sayed — Made to move
 
 The visual identity is built around animation's language: paths, keyframes, a
 playhead, and purposeful movement. The hero pairs kinetic display typography
-with Salmaa's own motion work in offset frames. It introduces what she does
+with Salma's own motion work in offset frames. It introduces what she does
 before the portfolio's quiet, easy-to-browse media rows.
 
 Palette: charcoal #171717, white #f4f4f4, frost #f1f1f5, muted grey
-#b0b0bb, dark grey #27272c, white #f4f4f4 (play controls), chartreuse
-#e5ef9c (a small frame accent). The requested dark theme uses white accents
-on charcoal surfaces, with the footage providing the main colour.
+#b0b0bb, deep wine #8f2938, red #bd495b, and soft rose #e7a4ae.
+White headlines lead the charcoal surfaces. Deep red grounds the main button,
+play controls, and secondary frame; lighter reds mark paths and interaction
+states. Small text stays white or grey for readable contrast.
 Type: Bricolage Grotesque for expressive display; Manrope for reading and
 controls. Both are self-hosted Latin WOFF2 with their OFL licenses.
-Layout: left-aligned text, generous whitespace, a landscape motion row and
+Layout: centered navigation, left-aligned desktop text, centered mobile text,
+generous whitespace, a landscape motion row and
 portrait teaser/reel rails. Each frame has its own caption and playback
-controls. Footer becomes a quiet dark grey contact canvas.
+controls. Footer becomes a quiet charcoal and wine contact canvas.
 Motion: one quiet hero playhead sequence; interactions show clear state
 changes. Reduced-motion disables the decorative sequence and autoplay.
 

diff --git a/README.md b/README.md
@@ -1,9 +1,9 @@
-# Salmaa Sayed — Made to move
+# Salma Sayed — Made to move
 
 Website: https://salmaa-sayed.github.io/portfolio/
 
 A complete, content-driven static portfolio for motion graphics and video editing.
-Charcoal and dark grey, white typography, motion paths, and keyframe details form Salmaa's
+Charcoal and dark grey, white typography, deep red accents, motion paths, and keyframe details form Salma's
 own visual identity. There is no runtime framework, build step, account, or
 third-party media request.
 
@@ -93,6 +93,6 @@ No environment variables or external services are required.
 
 Media behavior and the regression-test scenarios were adapted from
 https://github.com/marwanrabah/portfolio (reference commit
-`0bf657a2a4294123af7e21477b1448f703a7bf0a`). Salmaa's design, copy, contact details,
+`0bf657a2a4294123af7e21477b1448f703a7bf0a`). Salma's design, copy, contact details,
 portfolio content, and assets are independent. No Marwan portfolio footage or
 personal content is included. See `DESIGN.md` for the visual direction.
